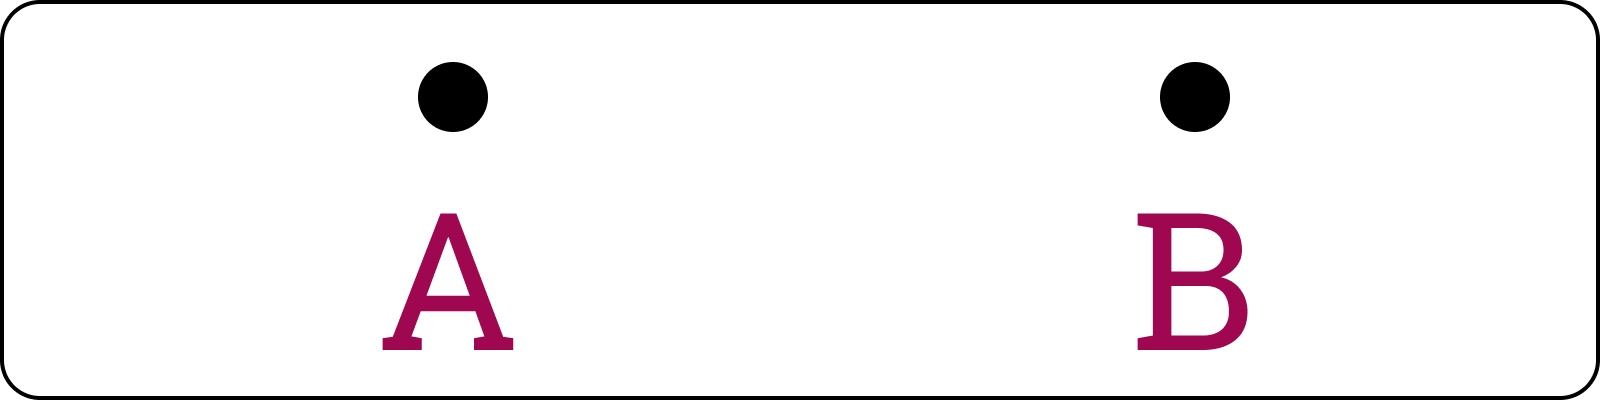
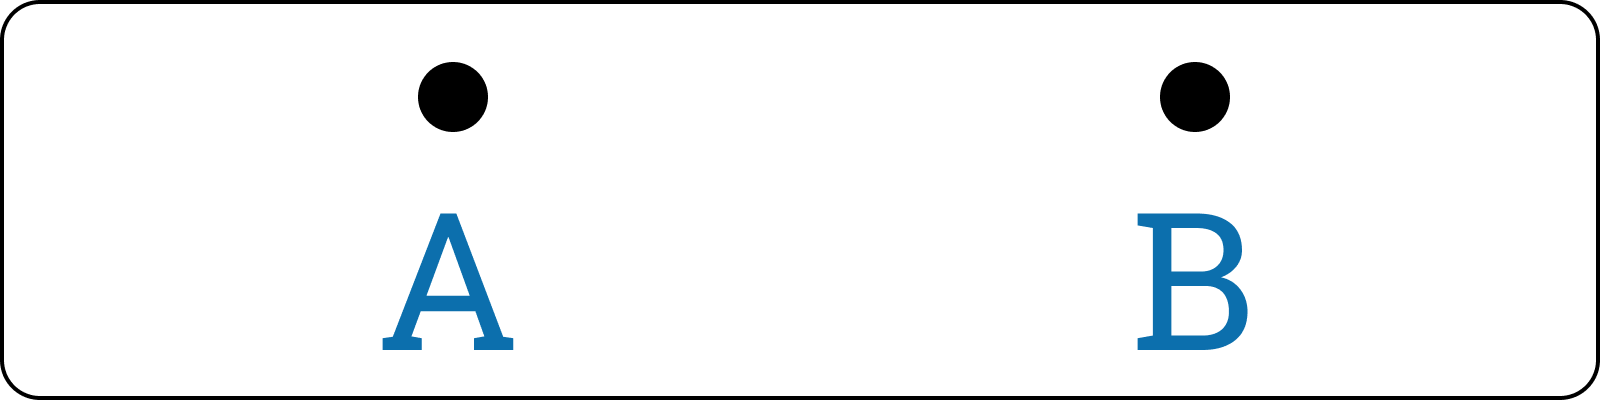
geometry_part

Changed region(s): [[0.6875, 0.51, 0.7812, 0.9], [0.2188, 0.54, 0.3438, 0.87]]

diff --git a/lib/pages/subject/mathametics/geometry/bindu_rekha_kun.dart b/lib/pages/subject/mathametics/geometry/bindu_rekha_kun.dart
@@ -1,0 +1,173 @@
+import 'package:flutter/material.dart';
+import 'package:flutter_staggered_grid_view/flutter_staggered_grid_view.dart';
+import 'package:sunamonir_pathshala/ads/native_ads_widget.dart';
+import 'package:sunamonir_pathshala/base_scaffold.dart';
+import 'package:sunamonir_pathshala/services/ads_helper.dart';
+import 'package:sunamonir_pathshala/utils/image_string/image_constant.dart';
+import 'package:sunamonir_pathshala/utils/text_string/string_constant.dart';
+
+class GeometryBinduRekhaKun extends StatelessWidget {
+  const GeometryBinduRekhaKun({super.key});
+
+  @override
+  Widget build(BuildContext context) {
+    double screenWidth = MediaQuery.of(context).size.width;
+    double divHeight = MediaQuery.of(context).size.height * (screenWidth > 600 ? 0.18 : 0.15);
+    return AdScaffold(
+      appBar: AppBar(
+        backgroundColor: const Color(0xff015473),
+        iconTheme: const IconThemeData(color: Colors.white),
+        title: const Text(
+          'বিন্দু, রেখা, কোণ ',
+          style: TextStyle(color: Colors.white, fontFamily: StringConstants.samirFont),
+        ),
+      ),
+      body: SingleChildScrollView(
+        child: Column(
+          mainAxisSize: MainAxisSize.min,
+          children: [
+            StaggeredGrid.count(
+              crossAxisCount: 1,
+              children: [
+                Column(
+                  crossAxisAlignment: CrossAxisAlignment.start,
+                  children: [
+                    const Padding(
+                      padding: EdgeInsets.only(top: 16.0, left: 16.0, right: 16.0),
+                      child: Text(
+                        'বিন্দুঃ',
+                        style: TextStyle(
+                          fontSize: 35,
+                          fontWeight: FontWeight.bold,
+                          fontFamily: StringConstants.bnFontFamily,
+                        ),
+                      ),
+                    ),
+                    Container(
+                      margin: const EdgeInsets.only(left: 16, right: 16),
+                      height: divHeight,
+                      child: Image.asset(
+                        ImageConstant.geobrk01,
+                        fit: BoxFit.contain,
+                      ),
+                    ),
+                    Container(
+                      margin: const EdgeInsets.only(left: 16, right: 16, top: 8),
+                      child: RichText(
+                        text: const TextSpan(
+                          text: 'চিত্রে দেখানো A ও B 	ফোঁটা দুটিই এক একটি বিন্দু।',
+                          style: TextStyle(
+                              color: Colors.black,
+                              fontSize: 25,
+                              fontFamily: StringConstants.bnFontFamily),
+                          children: <TextSpan>[
+                            TextSpan(
+                                text: '\n\nসংজ্ঞা :\n\n',
+                                style: TextStyle(fontWeight: FontWeight.bold)),
+                            TextSpan(
+                                text:
+                                    'যার দৈর্ঘ্য , প্রস্থ ও উচ্চতা নেই, শুধু অবস্থান আছে তাকে বিন্দু বলে।'),
+                          ],
+                        ),
+                      ),
+                    ),
+                    Padding(
+                      padding: const EdgeInsets.only(top: 25.0, left: 16.0, right: 16.0),
+                      child: NativeAdWidget(
+                          adUnitId: AdHelper.nativeAdUnitId, adSize: NativeAdSize.small),
+                    ),
+                    const Padding(
+                      padding: EdgeInsets.only(top: 0, left: 16.0, right: 16.0),
+                      child: Text(
+                        'রেখাঃ',
+                        style: TextStyle(
+                          fontSize: 35,
+                          fontWeight: FontWeight.bold,
+                          fontFamily: StringConstants.bnFontFamily,
+                        ),
+                      ),
+                    ),
+                    Container(
+                      margin: const EdgeInsets.only(right: 16, top: 10, left: 16),
+                      height: divHeight,
+                      child: Image.asset(
+                        ImageConstant.geobrk02,
+                        fit: BoxFit.contain,
+                      ),
+                    ),
+                    Container(
+                      margin: const EdgeInsets.only(left: 16, right: 16, top: 8),
+                      child: RichText(
+                        text: const TextSpan(
+                          text:
+                              'রুলার বা স্কেল দিয়ে A , B দুটি বিন্দু যুক্ত করে চিত্রের মত দাগ টানি।\n\n',
+                          style: TextStyle(
+                              color: Colors.black,
+                              fontSize: 25,
+                              fontFamily: StringConstants.bnFontFamily),
+                          children: <TextSpan>[
+                            TextSpan(
+                              text: 'এখানে A B দাগটিকে বলা হয় রেখা।',
+                            ),
+                            TextSpan(
+                                text: '\n\nসংজ্ঞা :\n\n',
+                                style: TextStyle(fontWeight: FontWeight.bold)),
+                            TextSpan(
+                              text:
+                                  'বিন্দু চলার পথকে রেখা বলে। রেখার দৈর্ঘ্য আছে কিন্তু প্রস্থ ও উচ্চতা নেই।',
+                            ),
+                          ],
+                        ),
+                      ),
+                    ),
+                    const Padding(
+                      padding: EdgeInsets.only(top: 20.0, left: 16.0, right: 16.0),
+                      child: Text(
+                        'কোণঃ',
+                        style: TextStyle(
+                          fontSize: 35,
+                          fontWeight: FontWeight.bold,
+                          fontFamily: StringConstants.bnFontFamily,
+                        ),
+                      ),
+                    ),
+                    Container(
+                      margin: const EdgeInsets.only(left: 16, right: 16, top: 20),
+                      height: divHeight,
+                      child: Image.asset(
+                        ImageConstant.geobrk03,
+                        fit: BoxFit.contain,
+                      ),
+                    ),
+                    Container(
+                      margin: const EdgeInsets.only(left: 16, right: 16, top: 8),
+                      child: RichText(
+                        text: const TextSpan(
+                          text:
+                              '\nচিত্রে AB ও AC রেখা দুটি পরস্পর A বিন্দুতে মিলিত হয়েছে। সুতরাং \u2220BAC একটি কোণ।\n',
+                          style: TextStyle(
+                              color: Colors.black,
+                              fontSize: 25,
+                              fontFamily: StringConstants.bnFontFamily),
+                          children: <TextSpan>[
+                            TextSpan(
+                                text: '\n\nসংজ্ঞা :\n',
+                                style: TextStyle(fontWeight: FontWeight.bold)),
+                            TextSpan(
+                                text:
+                                    'দুটি সরলরেখা পরস্পরকে কোনো এক বিন্দুতে ছেদ করে মিলিত হয় তখন তাকে কোণ বলে।\n'),
+                          ],
+                        ),
+                      ),
+                    ),
+                  ],
+                ),
+                const SizedBox(height: 20),
+              ],
+            ),
+          ],
+        ),
+      ),
+    );
+  }
+}

diff --git a/lib/pages/subject/mathametics/geometry/diff_angle_and_measure.dart b/lib/pages/subject/mathametics/geometry/diff_angle_and_measure.dart
@@ -1,0 +1,91 @@
+import 'package:flutter/material.dart';
+import 'package:flutter_staggered_grid_view/flutter_staggered_grid_view.dart';
+import 'package:sunamonir_pathshala/ads/native_ads_widget.dart';
+import 'package:sunamonir_pathshala/base_scaffold.dart';
+import 'package:sunamonir_pathshala/services/ads_helper.dart';
+import 'package:sunamonir_pathshala/utils/image_string/image_constant.dart';
+import 'package:sunamonir_pathshala/utils/text_string/string_constant.dart';
+
+class DiffAngleAndMeasure extends StatelessWidget {
+  const DiffAngleAndMeasure({super.key});
+
+  @override
+  Widget build(BuildContext context) {
+    double screenWidth = MediaQuery.of(context).size.width;
+    double divHeight = MediaQuery.of(context).size.height * (screenWidth > 600 ? 0.18 : 0.15);
+    return AdScaffold(
+      appBar: AppBar(
+        backgroundColor: const Color(0xff015473),
+        iconTheme: const IconThemeData(color: Colors.white),
+        title: const Text(
+          'বিন্দু, রেখা, কোণ ',
+          style: TextStyle(color: Colors.white, fontFamily: StringConstants.samirFont),
+        ),
+      ),
+      body: SingleChildScrollView(
+        child: Column(
+          mainAxisSize: MainAxisSize.min,
+          children: [
+            StaggeredGrid.count(
+              crossAxisCount: 1,
+              children: [
+                Column(
+                  crossAxisAlignment: CrossAxisAlignment.start,
+                  children: [
+                    const Padding(
+                      padding: EdgeInsets.only(top: 16.0, left: 16.0, right: 16.0),
+                      child: Text(
+                        'সমকোণঃ ',
+                        style: TextStyle(
+                          fontSize: 35,
+                          fontWeight: FontWeight.bold,
+                          fontFamily: StringConstants.bnFontFamily,
+                        ),
+                      ),
+                    ),
+                    Container(
+                      margin: const EdgeInsets.only(left: 16, right: 16),
+                      constraints: const BoxConstraints(
+                        maxWidth: double.infinity,
+                      ),
+                      child: Image.asset(
+                        ImageConstant.rightAngle,
+                        fit: BoxFit.contain,
+                      ),
+                    ),
+                    Container(
+                      margin: const EdgeInsets.only(left: 16, right: 16, top: 8),
+                      child: RichText(
+                        text: const TextSpan(
+                          text: 'চিত্রে দেখানো A ও B 	ফোঁটা দুটিই এক একটি বিন্দু।',
+                          style: TextStyle(
+                              color: Colors.black,
+                              fontSize: 25,
+                              fontFamily: StringConstants.bnFontFamily),
+                          children: <TextSpan>[
+                            TextSpan(
+                                text: '\n\nসংজ্ঞা :\n\n',
+                                style: TextStyle(fontWeight: FontWeight.bold)),
+                            TextSpan(
+                                text:
+                                    'যার দৈর্ঘ্য , প্রস্থ ও উচ্চতা নেই, শুধু অবস্থান আছে তাকে বিন্দু বলে।'),
+                          ],
+                        ),
+                      ),
+                    ),
+                    Padding(
+                      padding: const EdgeInsets.only(top: 25.0, left: 16.0, right: 16.0),
+                      child: NativeAdWidget(
+                          adUnitId: AdHelper.nativeAdUnitId, adSize: NativeAdSize.small),
+                    ),
+                  ],
+                ),
+                const SizedBox(height: 20),
+              ],
+            ),
+          ],
+        ),
+      ),
+    );
+  }
+}

diff --git a/lib/pages/subject/mathametics/geometry.dart b/lib/pages/subject/mathametics/geometry.dart
@@ -1,6 +1,7 @@
 import 'package:flutter/material.dart';
 import 'package:flutter_staggered_grid_view/flutter_staggered_grid_view.dart';
 import 'package:sunamonir_pathshala/base_scaffold.dart';
+import 'package:sunamonir_pathshala/pages/subject/mathametics/geometry/bindu_rekha_kun.dart';
 import 'package:sunamonir_pathshala/pages/subject/mathametics/geometry/geometry_box.dart';
 import 'package:sunamonir_pathshala/pages/subject/mathametics/geometry/intro.dart';
 import 'package:sunamonir_pathshala/pages/subject/sports/pages/sports_type.dart';
@@ -74,7 +75,7 @@ class Geometry extends StatelessWidget {
                     Navigator.push(
                       context,
                       MaterialPageRoute(
-                        builder: (context) => const SportsType(),
+                        builder: (context) => const GeometryBinduRekhaKun(),
                       ),
                     );
                   },

diff --git a/lib/utils/image_string/image_constant.dart b/lib/utils/image_string/image_constant.dart
@@ -659,6 +659,14 @@ class ImageConstant {
   static const String gDivider = "assets/images/mathematics/geometry/divider.png";
   static const String gEraser = "assets/images/mathematics/geometry/eraser.png";
 
+  //   Geometry | Bindu - Rekha - Kun
+  static const String geobrk01 = "assets/images/mathematics/geometry/bindu__rekha_kun_01.png";
+  static const String geobrk02 = "assets/images/mathematics/geometry/bindu__rekha_kun_02.png";
+  static const String geobrk03 = "assets/images/mathematics/geometry/bindu__rekha_kun_03.png";
+
+//   Geometry | Different Angle
+  static const String rightAngle = "assets/images/mathematics/geometry/90_degree.png";
+
 //   Serial
   static const String mthSerial1 = "assets/images/mathematics/serial/s1.png";
   static const String mthSerial2 = "assets/images/mathematics/serial/s2.png";

diff --git a/lib/main.dart b/lib/main.dart
@@ -1,7 +1,7 @@
 import 'package:flutter/material.dart';
 import 'package:flutter/services.dart';
 import 'package:google_mobile_ads/google_mobile_ads.dart';
-import 'package:sunamonir_pathshala/pages/subject/mathametics/geometry.dart';
+import 'package:sunamonir_pathshala/pages/subject/mathametics/geometry/diff_angle_and_measure.dart';
 import 'package:sunamonir_pathshala/utils/text_string/string_constant.dart';
 
 void main() async {
@@ -29,7 +29,7 @@ class MyApp extends StatelessWidget {
         colorScheme: ColorScheme.fromSeed(seedColor: Colors.deepPurple),
         useMaterial3: true,
       ),
-      home: const Geometry(),
+      home: const DiffAngleAndMeasure(),
       debugShowCheckedModeBanner: false,
     );
   }
